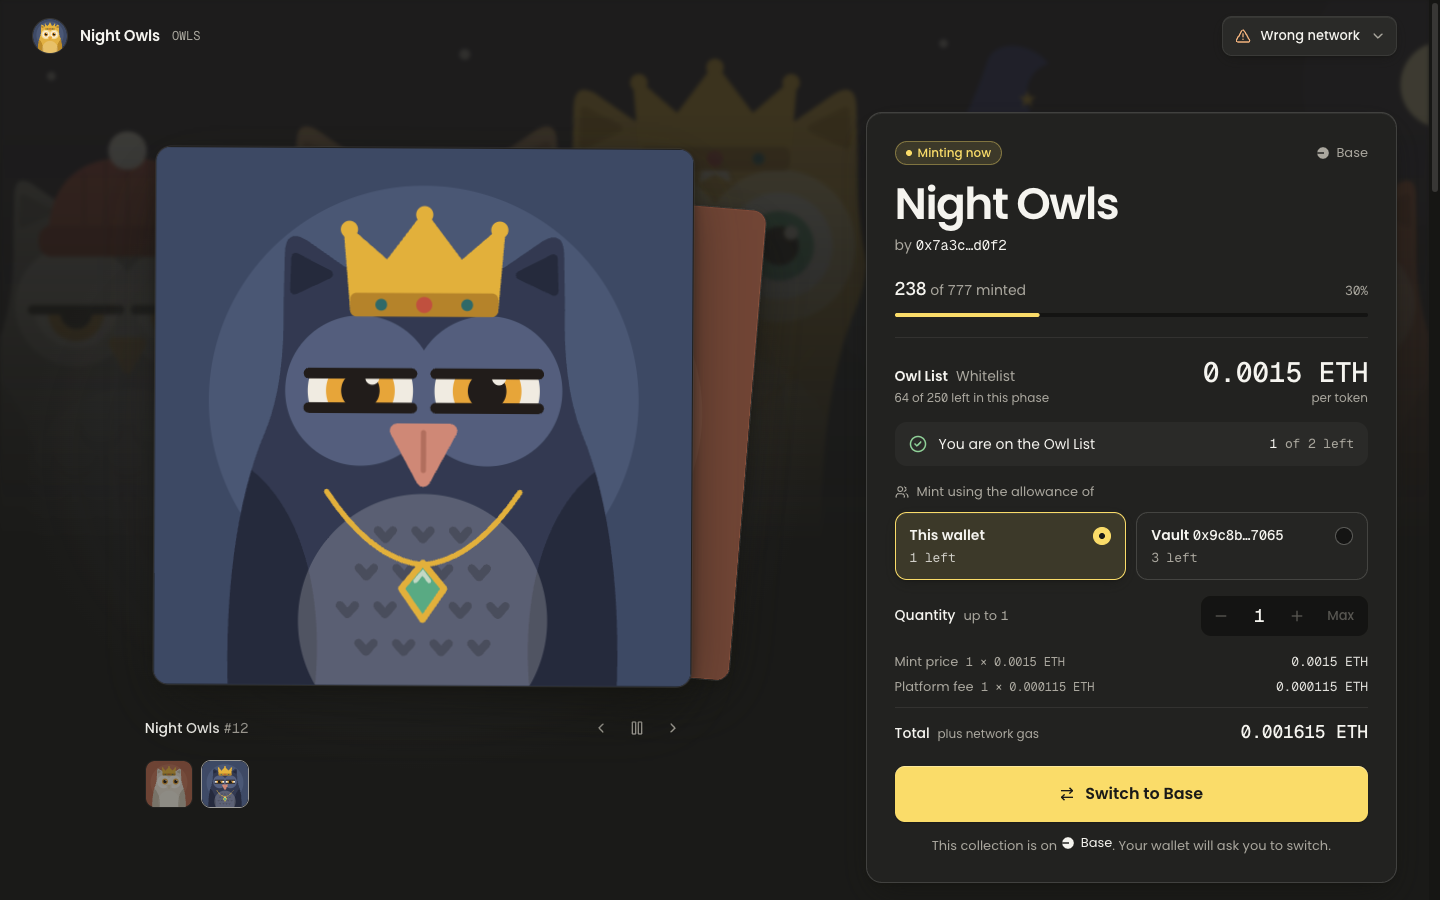
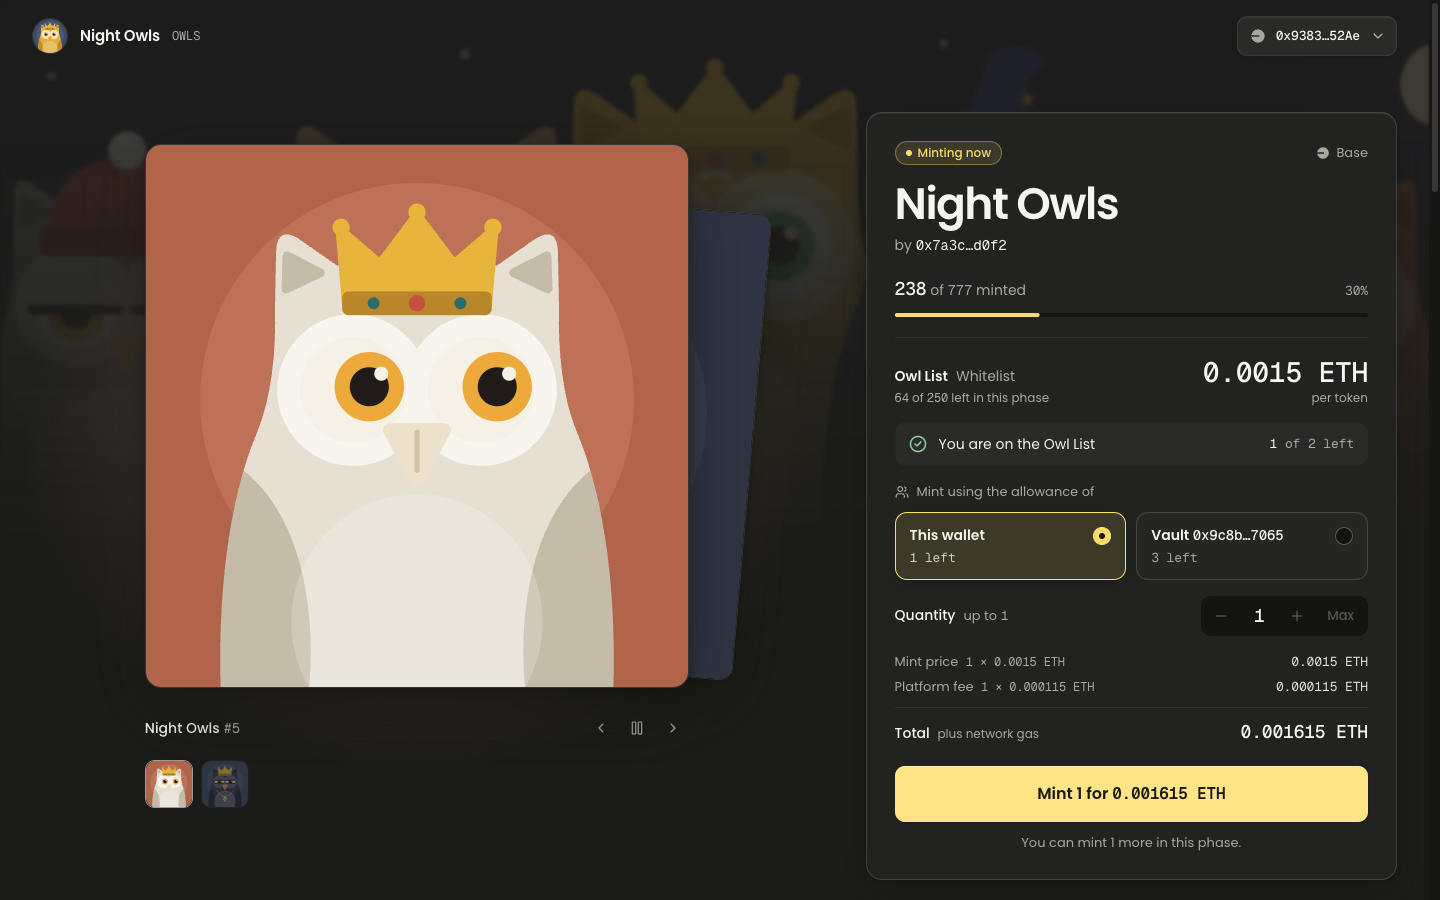
Retake the mint page screenshot with the wallet on the collection's chain so the button reads Mint, and correct the CI job's line range in the README's security section

diff --git a/README.md b/README.md
@@ -74,7 +74,7 @@ These are screenshots of the running app in flow order, taken against local Supa
 
 ![Manage mint page](docs/images/manage-mint-page.png)
 
-**13. The public mint page.** What a collector sees, polling the freshness server for shared state. The "Wrong network" badge is the dev wallet sitting on another chain than the collection's.
+**13. The public mint page.** What a collector sees, polling the freshness server for shared state. The wallet is connected on the collection's chain, so the primary button is live.
 
 ![Mint page](docs/images/mint-page.png)
 
@@ -360,7 +360,7 @@ What is enforced, and where. Every item below is in the code or in a document li
 
 **Money.** Fees are flat native amounts snapshotted into the collection at deploy, read from the factory in the constructor; there is no oracle, and only a factory admin can change a deployed collection's fee. Render jobs run only when `paid` or `waived`: the payment is decoded from a receipt on chain, re-checked by the worker, and backed by a database constraint (see section f above).
 
-**Contracts.** The October 2026 review is in [`docs/reference/contract-review-2026-10.md`](docs/reference/contract-review-2026-10.md): Slither 0.11.6 over both contracts with 22 findings from 15 of 102 detectors, none confirmed and every one triaged with a reason ([`slither.triage.md`](contracts/slither.triage.md)); a CI job that runs Slither on every push and pull request and fails on any medium or high finding the triage database does not hold ([`ci.yml:52-66`](.github/workflows/ci.yml#L52-L66)); 13 invariants driven by 31 handler actions, each shown to fail against a deliberate mutation of the contracts; the deep run of 1,000 runs at depth 1,000 (1,000,000 calls per invariant), all 100 tests passing; and about 96% line coverage on the collection and 97% on the factory. The review changed no contract. It is not an external audit: the external look is the owner's decision before mainnet, with the review as its brief, and the review's section 7 lists what is still owed.
+**Contracts.** The October 2026 review is in [`docs/reference/contract-review-2026-10.md`](docs/reference/contract-review-2026-10.md): Slither 0.11.6 over both contracts with 22 findings from 15 of 102 detectors, none confirmed and every one triaged with a reason ([`slither.triage.md`](contracts/slither.triage.md)); a CI job that runs Slither on every push and pull request and fails on any medium or high finding the triage database does not hold ([`ci.yml:52-67`](.github/workflows/ci.yml#L52-L67)); 13 invariants driven by 31 handler actions, each shown to fail against a deliberate mutation of the contracts; the deep run of 1,000 runs at depth 1,000 (1,000,000 calls per invariant), all 100 tests passing; and about 96% line coverage on the collection and 97% on the factory. The review changed no contract. It is not an external audit: the external look is the owner's decision before mainnet, with the review as its brief, and the review's section 7 lists what is still owed.
 
 **Secrets.** Nothing sensitive is in the repository. A gitleaks scan of all 469 commits on 27 October 2026 found no leaks. `.env` files (except `.env.example`), the local signing key and the `legacy/` folder of old repositories are gitignored ([`.gitignore`](.gitignore)). The indexer's database role holds no service-role key, and cron endpoints answer only a bearer secret.
 
